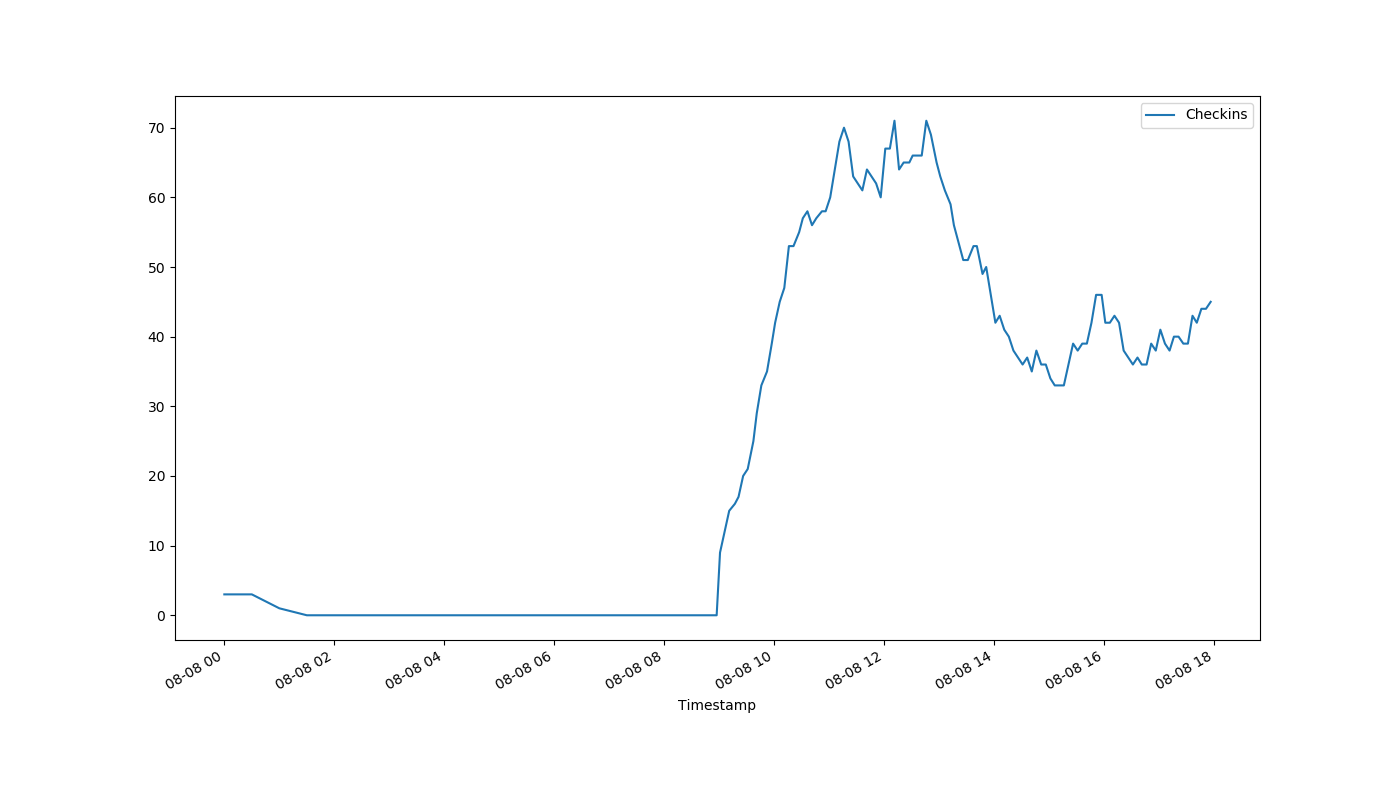
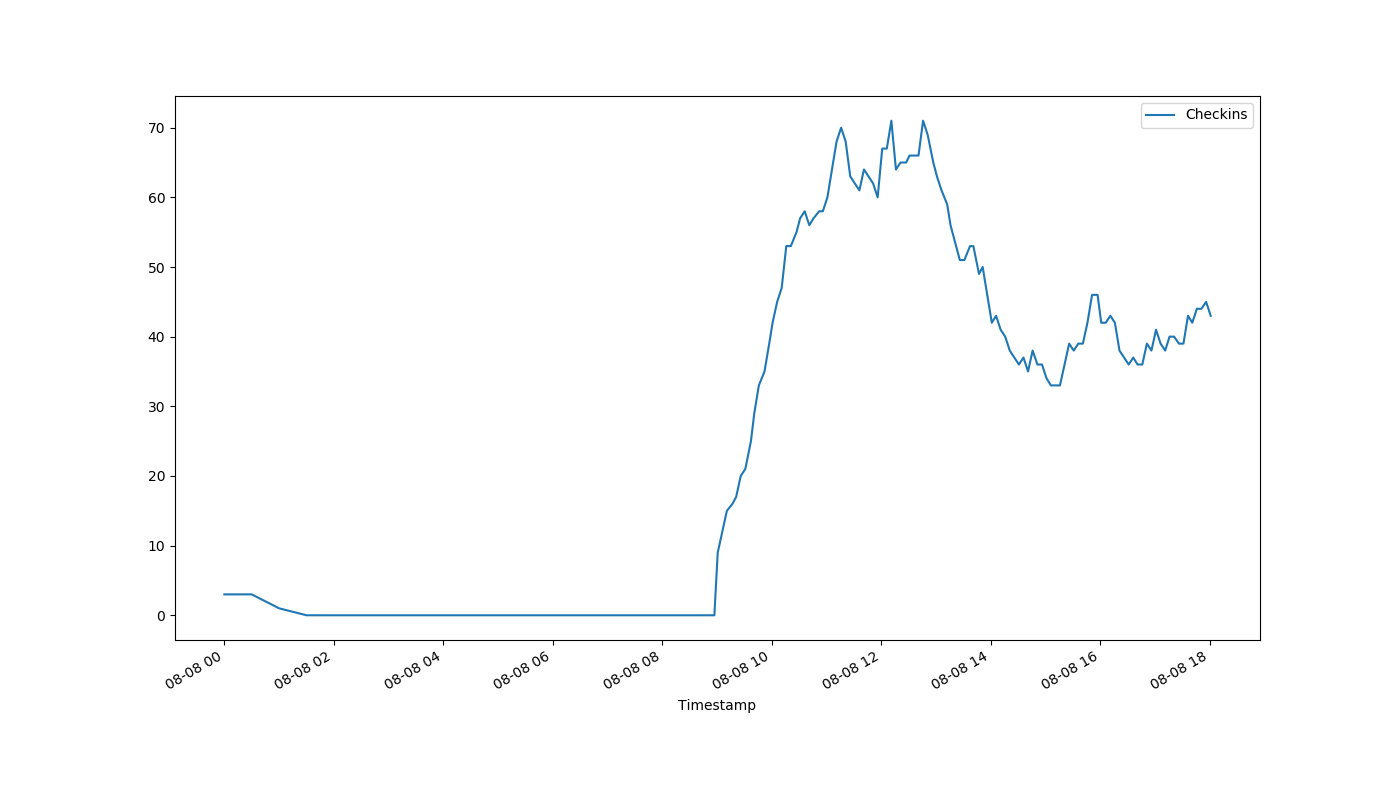
auto-Aug-08-18:03:22

diff --git a/index.html b/index.html
@@ -1,1 +1,1 @@
-<!DOCTYPE html><html><head><meta http-equiv="refresh" content="30"><link rel='stylesheet' href='holmcurrent.css'></head><body><p id='count'>45</p><div id='graph-wrap'><img id='graph' src='holmgraph-Aug-08.png'></div><p id='updated'>Last updated 17:57:04 / 17:56:09</p></body></html>
+<!DOCTYPE html><html><head><meta http-equiv="refresh" content="30"><link rel='stylesheet' href='holmcurrent.css'></head><body><p id='count'>43</p><div id='graph-wrap'><img id='graph' src='holmgraph-Aug-08.png'></div><p id='updated'>Last updated 18:02:04 / 18:01:09</p></body></html>
